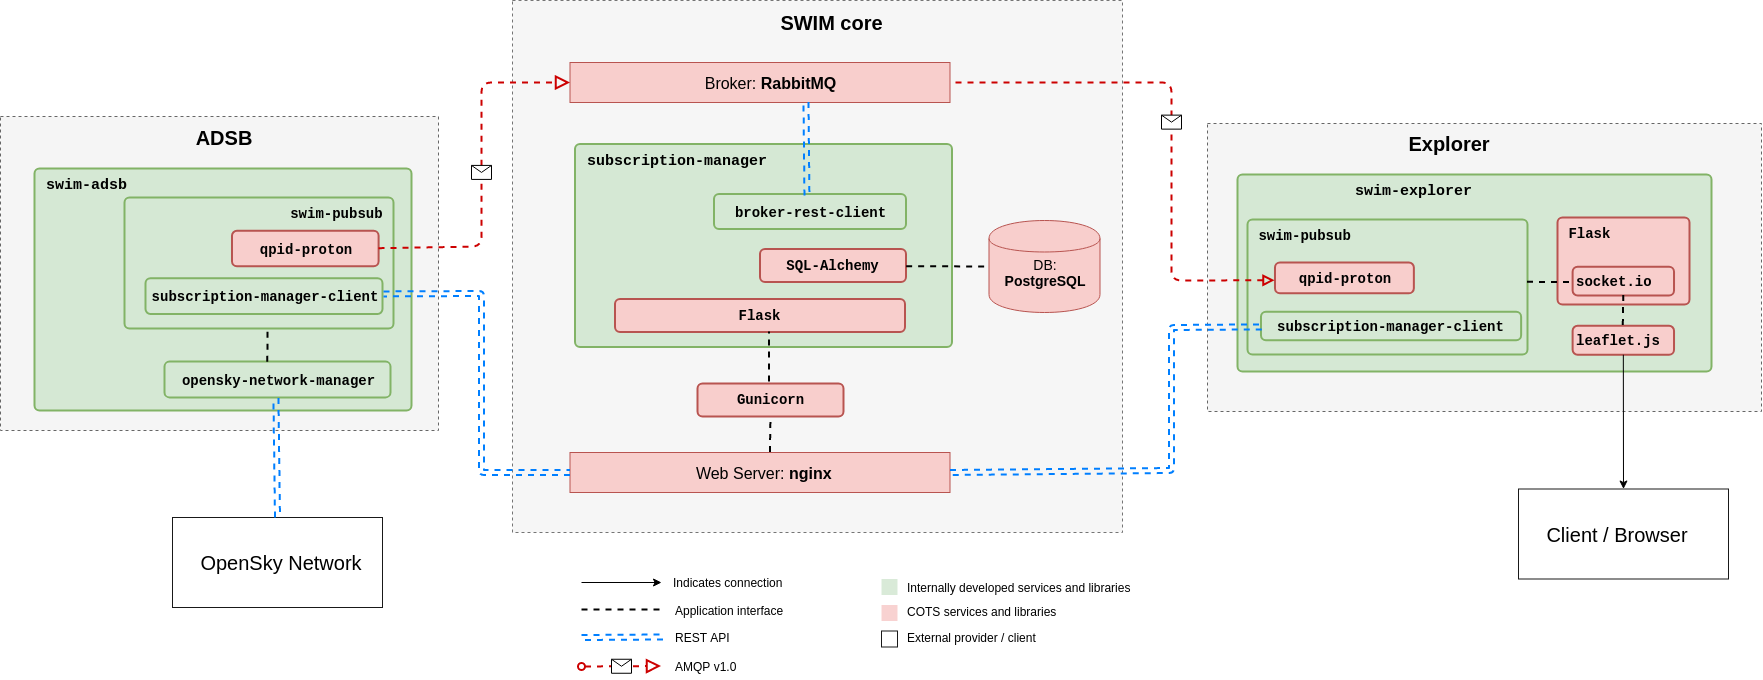
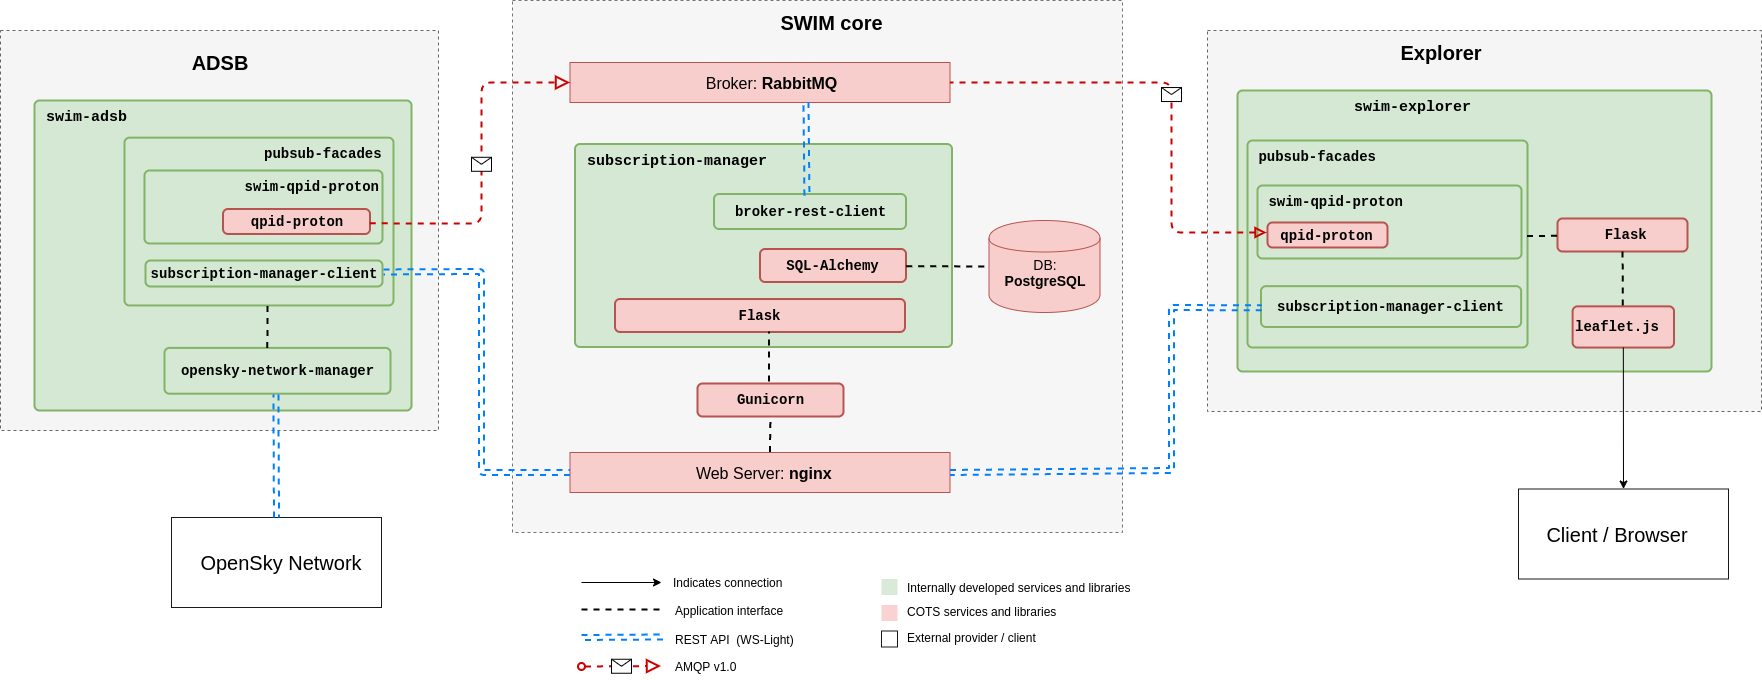
discard swim-pubsub references and update architecture image

diff --git a/conformance/README.md b/conformance/README.md
@@ -89,7 +89,7 @@ Layer consisting of the applications part of the implementation that are a custo
 |Application Module|Rationale|Source Repository|  
 |------------------|---------|-----------------|  
 |Subscription Manager|Subscription Manager is an application that allows Consumers of the SWIM\-TI Integrator to manage their subscriptions and get information on available topics through a REST API over the WS\-Light Service Binding\.| [Subscription Manager](https://github.com/eurocontrol-swim/subscription-manager/blob/master/) |  
-|SWIM ADSB|SWIM ADSB is an application that retrieves live air traffic information from [OpenSky Network](https://opensky-network.org) and demonstrates how it can use the [SWIM-PubSub](https://github.com/eurocontrol-swim/swim-pubsub) mini framework in order to publish this information through a broker\.| [SWIM ADSB](https://github.com/eurocontrol-swim/swim-adsb/blob/master/) |  
+|SWIM ADSB|SWIM ADSB is an application that retrieves live air traffic information from [OpenSky Network](https://opensky-network.org) and demonstrates how it can use the [pubsub-facades](https://github.com/eurocontrol-swim/pubsub-facades) library in order to publish this information through a broker\.| [SWIM ADSB](https://github.com/eurocontrol-swim/swim-adsb/blob/master/) |  
 
 
 ### Implementation Views

diff --git a/README.md b/README.md
@@ -18,8 +18,8 @@ database and it exposes a REST API based on the [OpenAPI](https://www.openapis.o
 - **SWIM Explorer** is the `consumer` implementation which subscribes to arrival or departure topics and displays the air traffic in real time
 on a map.
 
-> Both SWIM ADSB and SWIM Explorer make use of the [SWIM PubSub](https://github.com/eurocontrol-swim/swim-pubsub)
-mini framework which allows them to speak to the Subscription Manager as well as the broker.
+> Both SWIM ADSB and SWIM Explorer make use of the [pubsub-facades](https://github.com/eurocontrol-swim/pubsub-facades)
+library which allows them to speak to the Subscription Manager as well as the broker.
 
 The platform is designed with a microservices approach and is run with [docker](https://docker.com).
 
